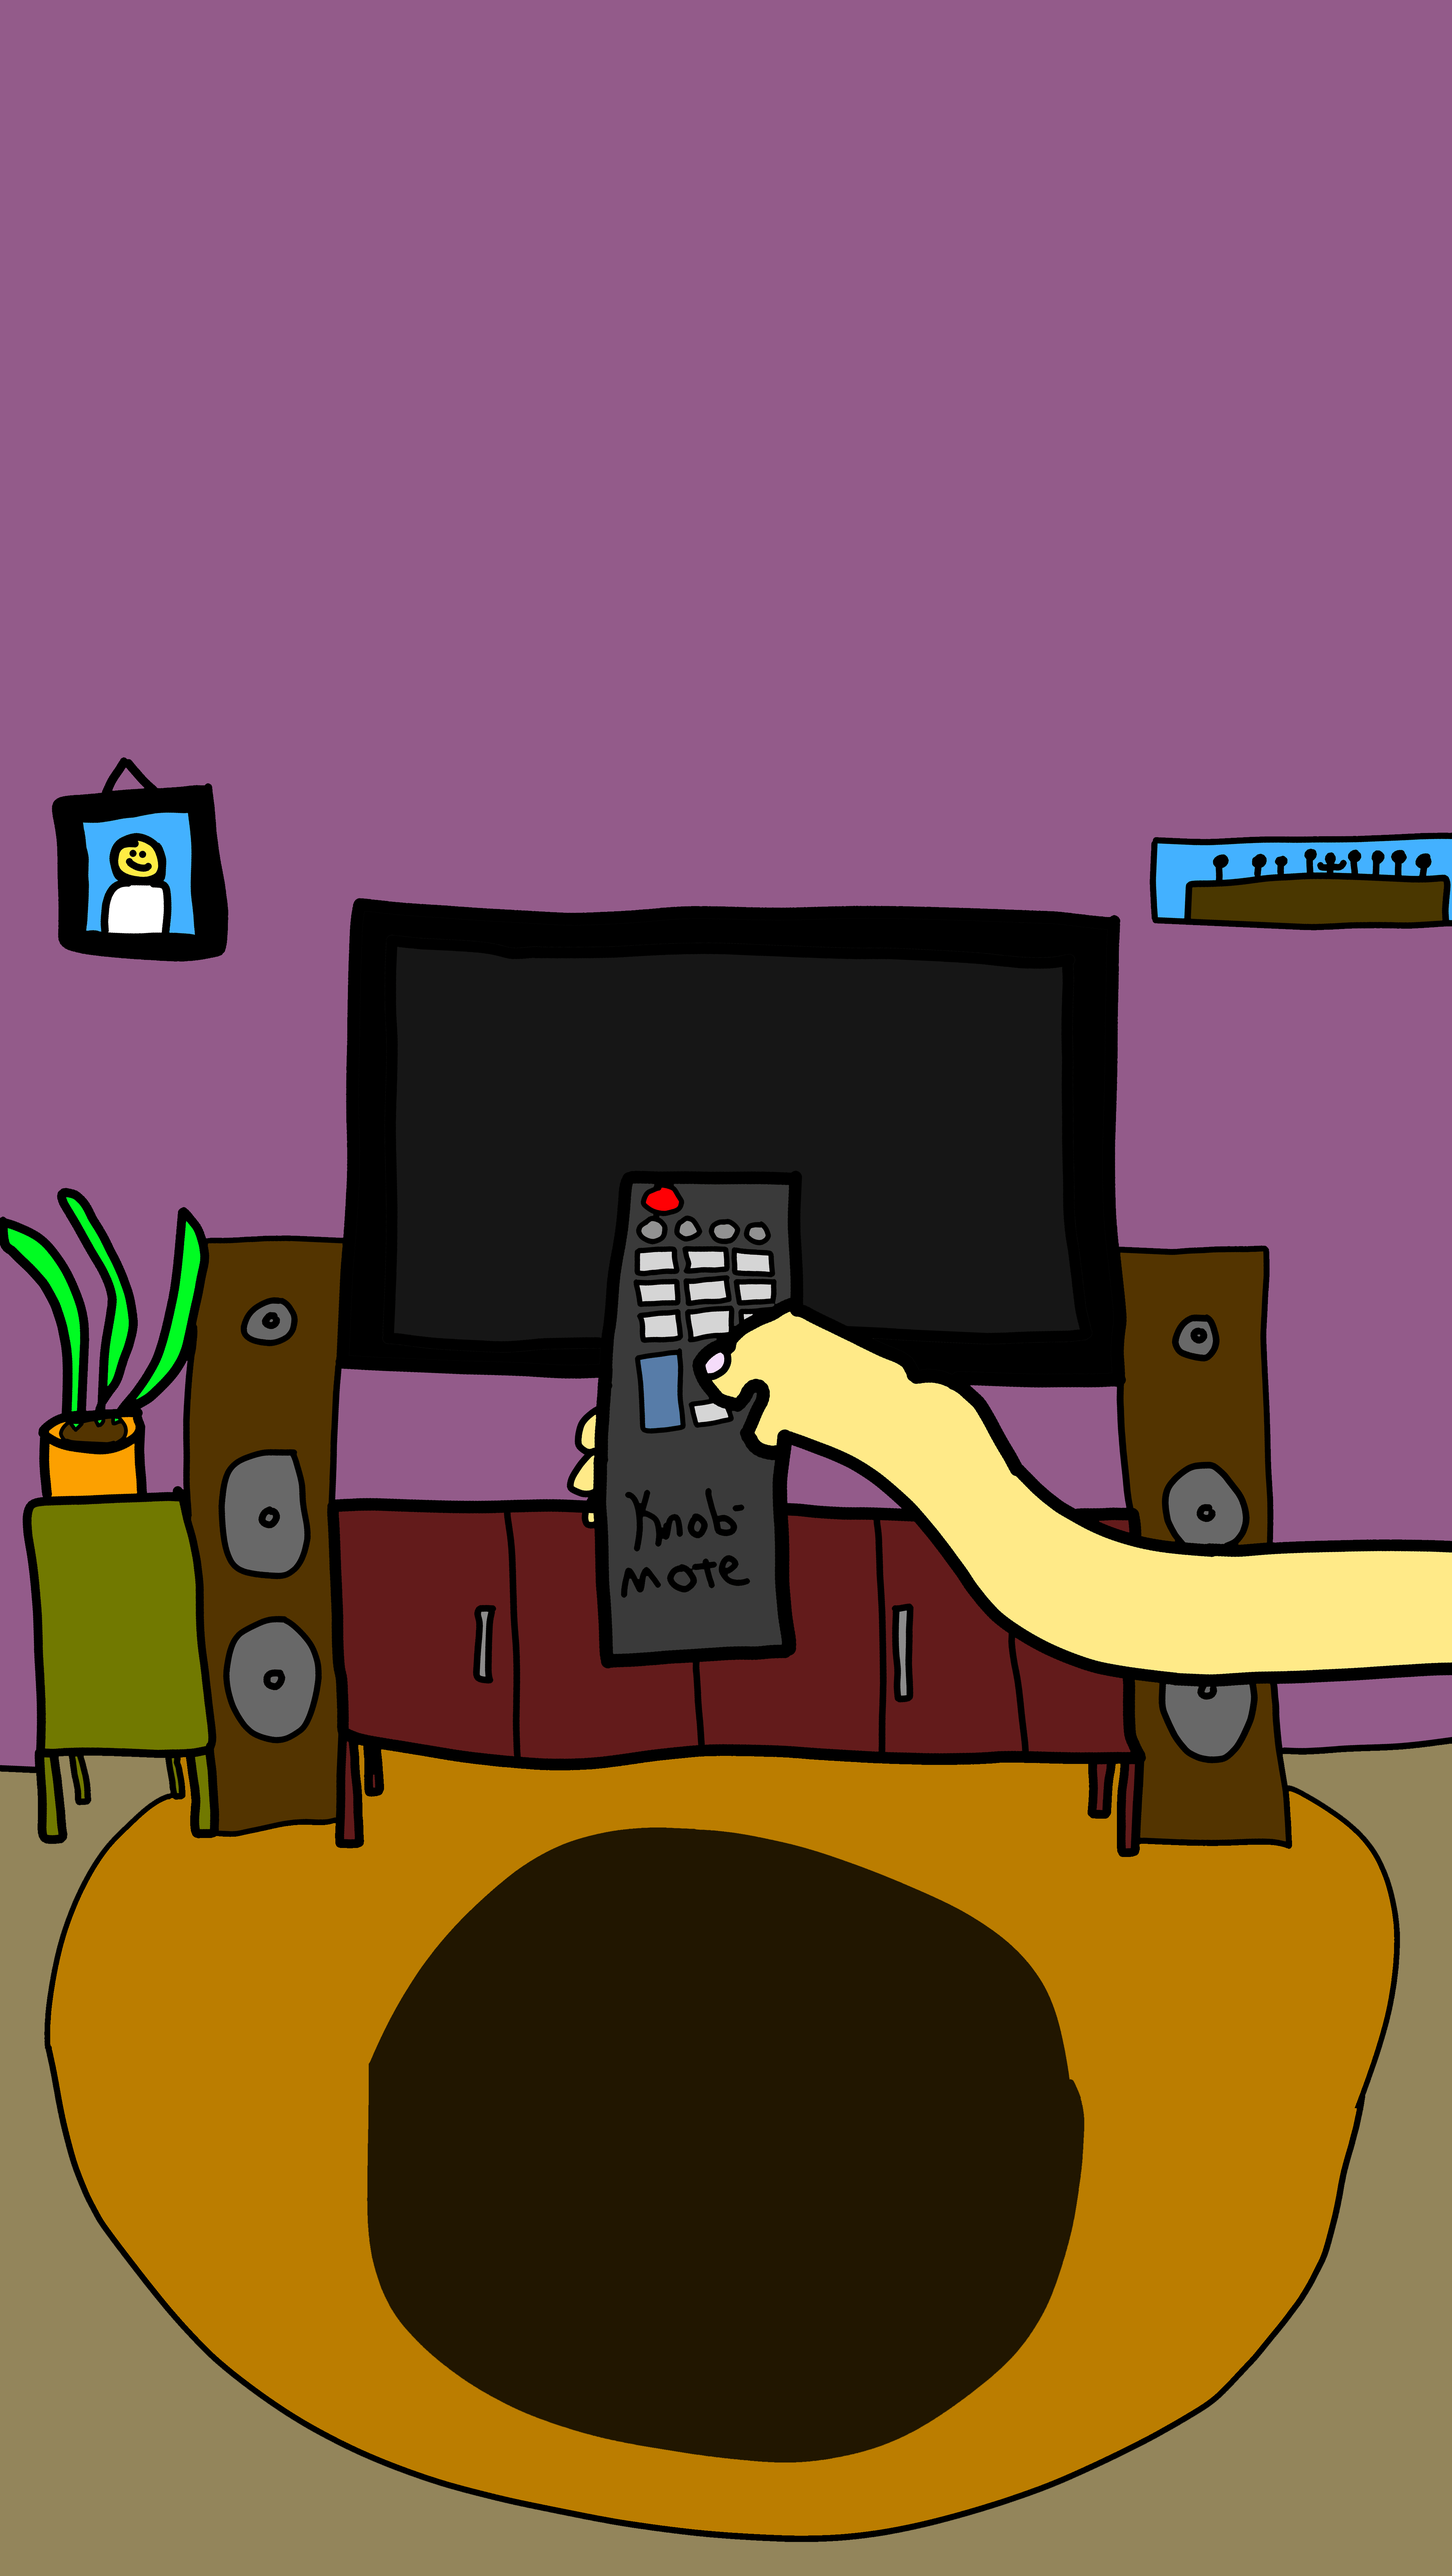
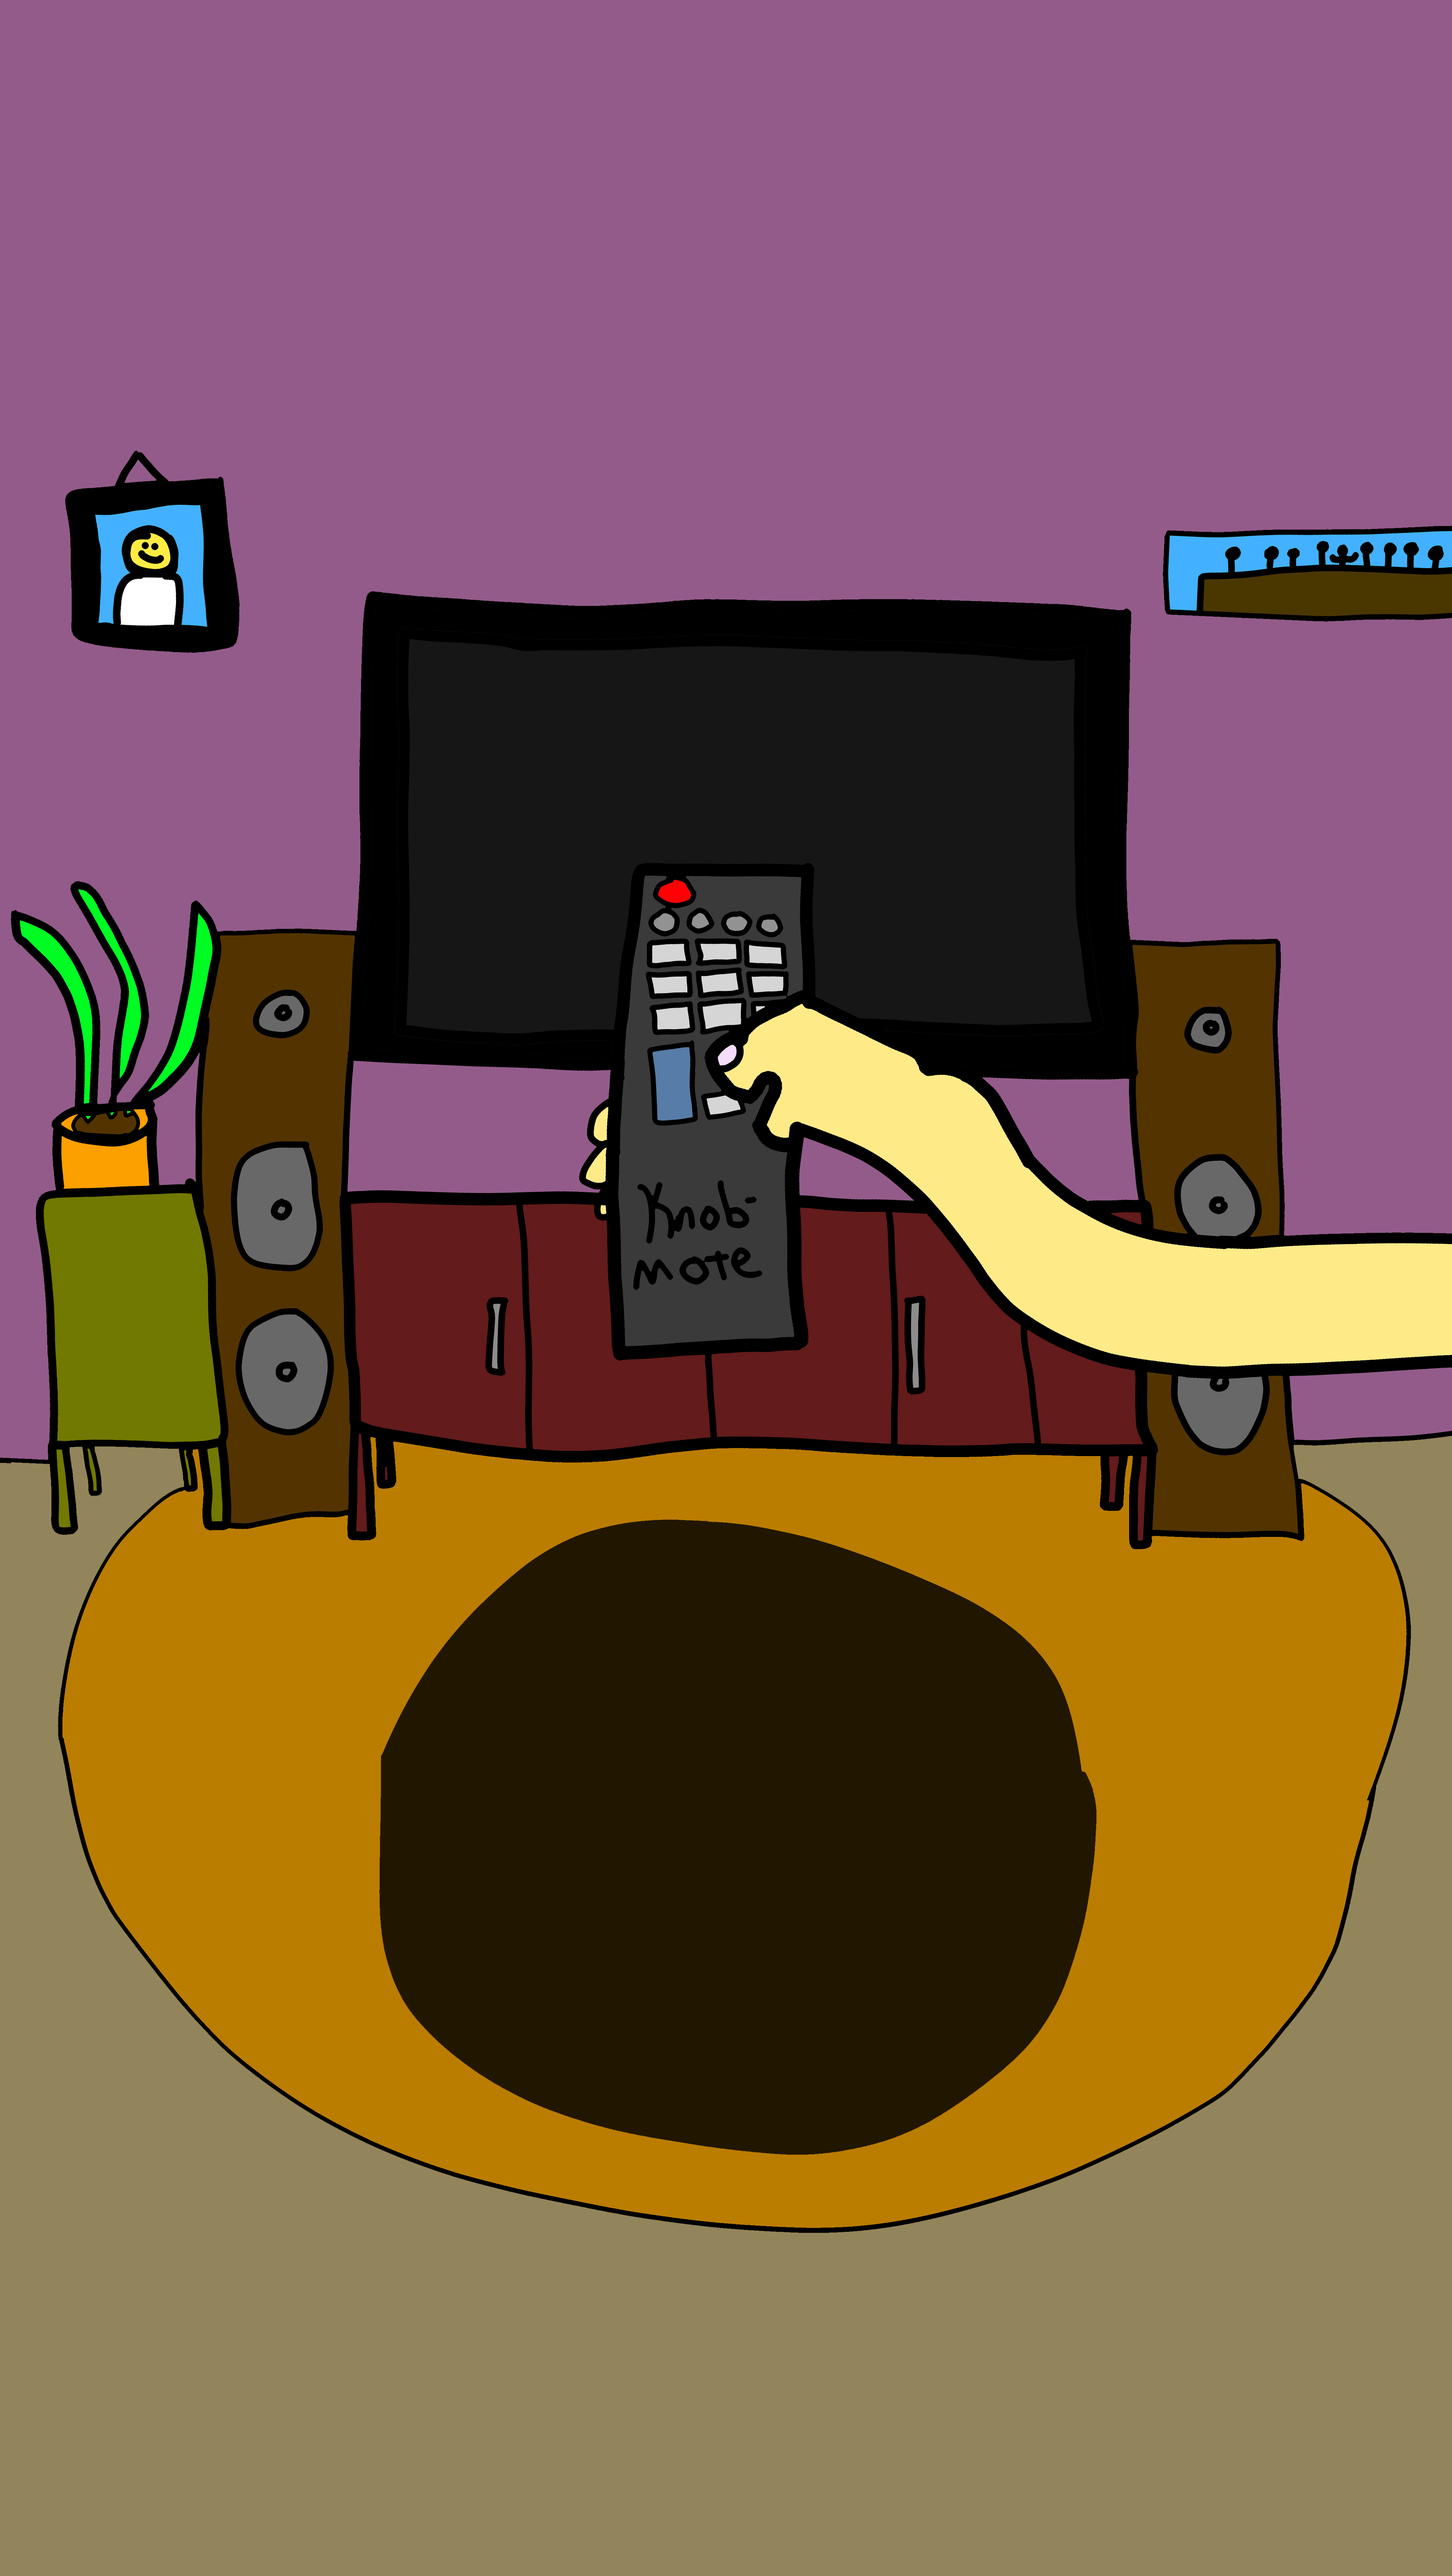
videos.html: raised-TV mobile art, header pinned to the top
Swaps in the artist's adjusted 9:16 art with the TV sitting higher, and
re-measures the mobile TV rect and wall anchor against it - the screen
moved up about 950px in art space, so the button box and header anchor
both had to move with it.

The header now sits at the top of the viewport like every other page
(same clamp(8px, 2vw, 20px) inset, viewport-centred, 760px / 18vh caps)
instead of being centred in the wall space above the TV. It's also
clamped against the TV's on-screen top edge, so on short or very wide
windows - where cover-fit leaves little wall above the TV - it shrinks
rather than overlapping the screen.

Claude-Session: https://claude.ai/code/session_01TFfgihw3PXsCU8MvJmTFcJ

diff --git a/videos.html b/videos.html
@@ -165,8 +165,8 @@
     mobile: {
       src: '/videos-room-mobile.webp',
       w: 4511, h: 8000,
-      tv: { cx: 2198, cy: 3271, w: 2047, h: 546 },
-      tvTopY: 2820
+      tv: { cx: 2236, cy: 2315, w: 2047, h: 546 },
+      tvTopY: 1863
     }
   };
   var LOGO_ASPECT = 4080 / 1221;
@@ -213,12 +213,14 @@
     slot.style.setProperty('--pop-blur', (bh * 0.09) + 'px');
 
     var topY = oy + v.tvTopY * s;
-    var lw = Math.min(Math.max(topY, 0) * 0.75 * LOGO_ASPECT, vp.w * 0.78, 820);
-    var lh = lw / LOGO_ASPECT;
+    var pad = Math.max(8, Math.min(20, vp.w * 0.02));
+    var lh = Math.min(vp.h * 0.18, Math.max(34, topY - pad - vp.h * 0.012));
+    var lw = Math.min(lh * LOGO_ASPECT, 760, vp.w * 0.92);
+    lh = lw / LOGO_ASPECT;
     logo.style.width = lw + 'px';
     logo.style.height = lh + 'px';
-    logo.style.left = (ox + v.tv.cx * s - lw / 2) + 'px';
-    logo.style.top = Math.max(6, (topY - lh) / 2) + 'px';
+    logo.style.left = ((vp.w - lw) / 2) + 'px';
+    logo.style.top = pad + 'px';
   }
 
   var rafPending = false;
